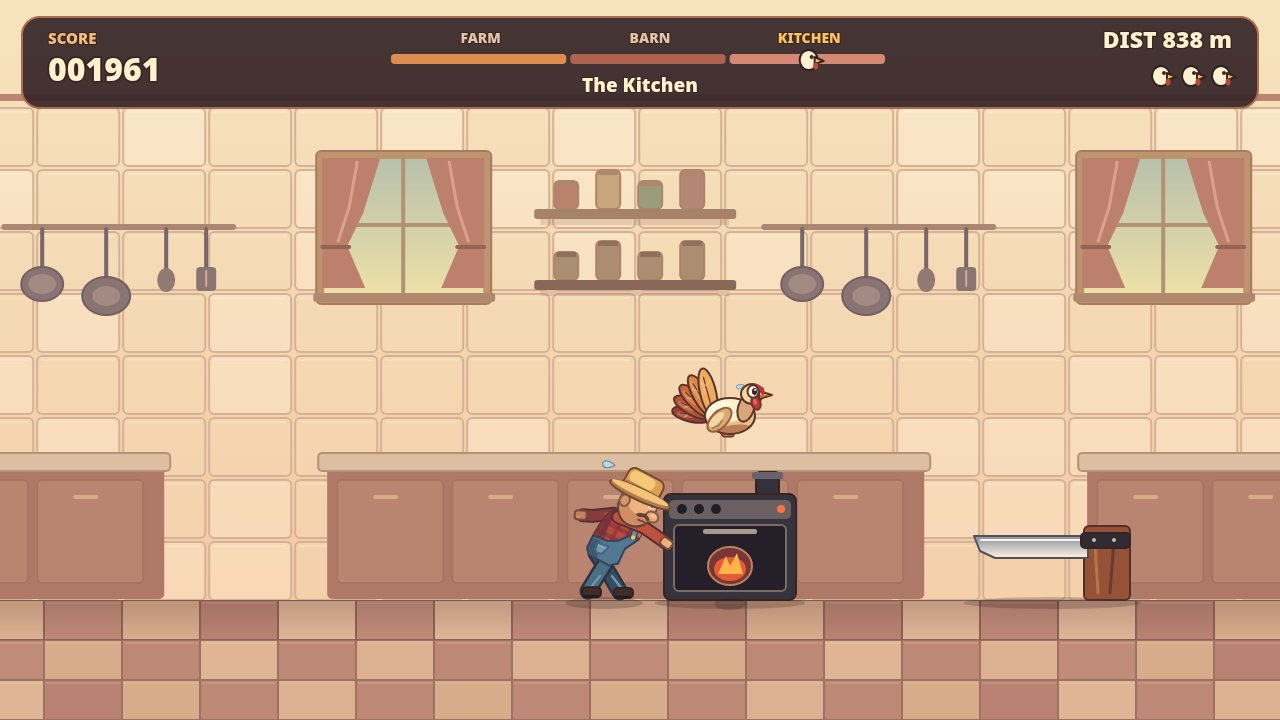
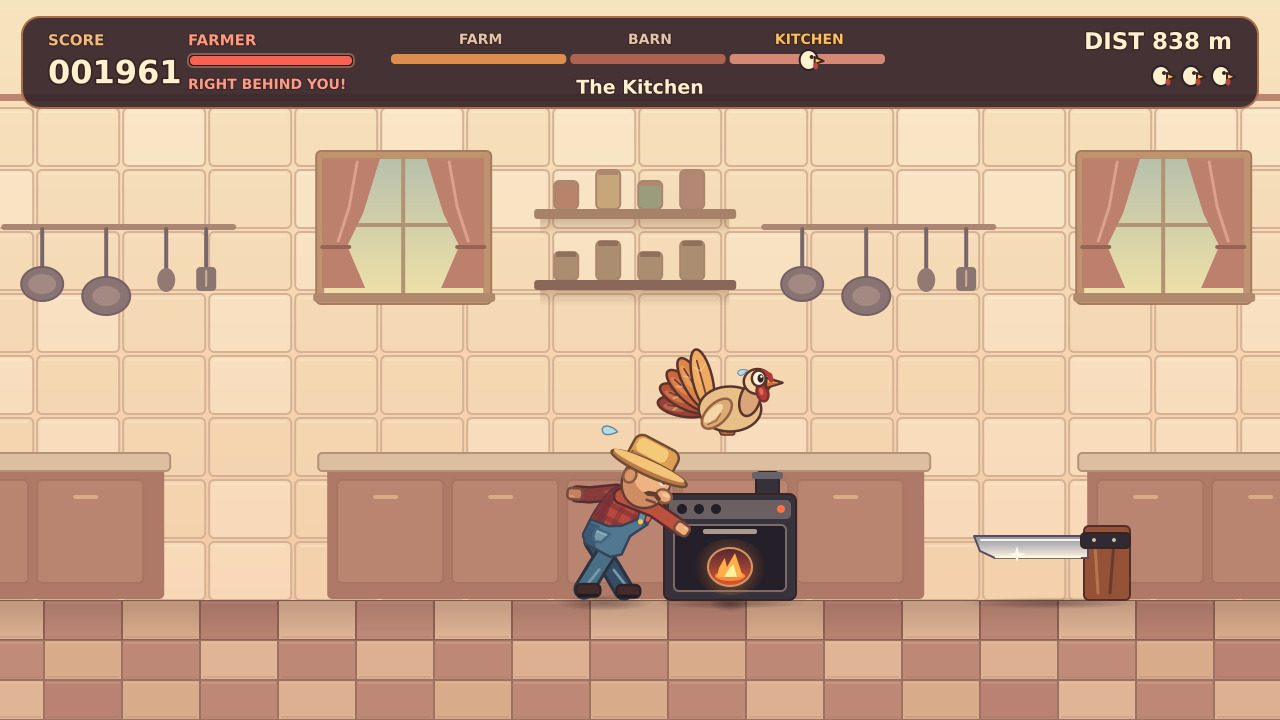
v3: characters +25% draw scale, FARMER proximity HUD, graphics polish (shadows, oven flames, knife glint, caught expressions, richer backgrounds), oven collision height 128->112 for fairness

diff --git a/game/src/render.js b/game/src/render.js
@@ -8,6 +8,7 @@ const LEAF_COLORS = ['#c74731', '#e77835', '#ffbf55'];
 const STAGE_LABELS = ['FARM', 'BARN', 'KITCHEN'];
 const HIT_SECONDS = 0.2;
 const DUST_INTERVAL = 0.095;
+const CHARACTER_SCALE = 1.25;
 
 function fraction(value) {
   return value - Math.floor(value);
@@ -110,7 +111,16 @@ export class Renderer {
   }
 
   shadow(x, y, w, h = 6) {
-    this.oval(x, y, w, h, '#281b1c38');
+    const c = this.ctx;
+    c.save();
+    c.translate(x, y);
+    c.scale(w, h);
+    const shade = c.createRadialGradient(0, 0, 0, 0, 0, 1);
+    shade.addColorStop(0, '#24171861');
+    shade.addColorStop(0.5, '#24171839');
+    shade.addColorStop(1, '#24171800');
+    this.oval(0, 0, 1, 1, shade);
+    c.restore();
   }
 
   background(id, camera, sunrise = false) {
@@ -139,6 +149,10 @@ export class Renderer {
       this.oval(x + 103, y, 45, 15, '#fff2d16e');
       this.oval(x + 65, y + 1, 31, 12, '#fff2d14d');
     });
+    this.repeat(camera * 0.19, 690, (x, i) => {
+      const height = 210 + this.decorSample(i, 12) * 35;
+      this.oval(x + 160, g + 9, 450, height, '#dab098');
+    });
     this.repeat(camera * 0.28, 435, (x, i) => {
       const height = 165 + 50 * this.decorSample(i, 3);
       this.oval(x + 50, g + 27, 324, height + 22, '#b6907d');
@@ -165,6 +179,7 @@ export class Renderer {
       this.line([[x, g - 44], [x + 82, g - 44]], '#a17655', 3);
       this.line([[x, g - 67], [x, g - 33]], '#8b604b', 5);
     });
+    this.rect(0, g - 27, this.w, 27, this.gradient(g - 27, g, '#dcab7100', '#ecba7938'));
   }
 
   barn(camera, palette) {
@@ -176,6 +191,7 @@ export class Renderer {
       this.line([[x + 16, 182], [x + 20, 343], [x + 17, 415]], '#e2a17429');
     });
     this.repeat(camera * 0.55, 618, (x, i) => {
+      this.rect(x + 44, 100, 10, g - 100, '#38242230');
       this.rect(x + 8, 0, 32, g, '#52342f');
       this.rect(x + 39, 0, 5, g, '#a1664b');
       this.poly([[x + 44, 146], [x + 127, 90], [x + 145, 90],
@@ -188,6 +204,10 @@ export class Renderer {
         this.gradient(280, g - 55, '#f4cd8e49', '#f4cd8e00'));
       this.poly([[x + 191, 283], [x + 242, 283], [x + 536, g - 58], [x + 456, g - 58]],
         this.gradient(280, g - 58, '#ffdb9f37', '#ffdb9f00'));
+      for (let mote = 0; mote < 4; mote++) {
+        const sample = this.decorSample(i * 4 + mote, 15);
+        this.oval(x + 199 + mote * 29, 325 + mote * 26 + sample * 15, 1 + sample, 1, '#ffe1ab62');
+      }
 
       const ropeX = x + 370 + this.decorSample(i, 6) * 73;
       this.line([[ropeX, 101], [ropeX, 175]], '#644137', 5);
@@ -240,7 +260,7 @@ export class Renderer {
           this.rect(left + 2, shelf - height, 20, 5, row ? '#8e705d' : '#ad886e');
         }
         this.round(x + 264, shelf, 202, 10, 3, row ? '#8a6859' : '#a68268');
-        this.rect(x + 270, shelf + 10, 189, 6, '#946b5833');
+        this.rect(x + 270, shelf + 10, 189, 16, this.gradient(shelf + 10, shelf + 26, '#80544350', '#80544300'));
       }
 
       this.line([[x + 494, 227], [x + 723, 227]], '#ab8672', 6);
@@ -289,6 +309,7 @@ export class Renderer {
           this.rect(x, y, 78, 40, row === 0 ? '#8d6155' : '#9c7260');
           this.rect(x + 1, y + 1, 76, 38, tones[(col + row) & 1][Math.floor(sample * 3)]);
           this.rect(x + 2, y + 2, 74, 2, '#ffe7bd25');
+          this.rect(x + 3, y + 36, 72, 2, '#9e69542a');
         }
       });
       this.rect(0, g, this.w, 38, this.gradient(g, g + 38, '#62423d40', '#62423d00'));
@@ -318,6 +339,7 @@ export class Renderer {
         this.oval(x + 31, y, 12 + sample * 16, 1.5 + sample * 2, '#5e463629');
         this.oval(x + 44, y + 6, 2.5 + sample * 2, 1.5, '#c69b6d75');
         this.oval(x + 57, y - 2, 2, 1.25, '#6148325e');
+        this.line([[x + 30, y + 1], [x + 38 + sample * 9, y + 1]], '#dfad7327', 1.3);
         if (sample > 0.34) {
           const grass = x + 9 + sample * 10;
           this.line([[grass - 5, g + 3], [grass, g + 12], [grass + 2, g + 4]], '#75643d', 2);
@@ -513,7 +535,7 @@ export class Renderer {
         this.line(middleTine, '#4b4041', 4);
         break;
       }
-      case 'oven':
+      case 'oven': {
         this.round(x + w - 40, y, 23, 31, 4, '#34313a', INK);
         this.round(x + w - 44, y, 31, 7, 2, '#68636a');
         this.round(x, y + 22, w, h - 22, 7, '#37333c', INK);
@@ -522,11 +544,22 @@ export class Renderer {
         this.oval(x + w - 15, y + 37, 4, 4, '#ff7243');
         this.round(x + 10, y + 53, w - 20, h - 62, 5, '#241f28', '#7d6a64');
         this.round(x + 39, y + 57, w - 78, 5, 2, '#a99a8e');
-        this.oval(x + w / 2, g - 34, 22, 19, '#793636', 0, '#bb825d');
-        this.oval(x + w / 2, g - 31, 16, 12, '#e55b37');
-        this.poly([[x + 54, g - 26], [x + 62, g - 44], [x + 66, g - 34],
-          [x + 73, g - 47], [x + 79, g - 26]], '#ffb54c');
+        const cx = x + w / 2;
+        const cy = g - 33;
+        const flicker = Math.sin(this.time * 14 + item.x * 0.07);
+        const heat = this.ctx.createRadialGradient(cx, cy + 5, 3, cx, cy, 36);
+        heat.addColorStop(0, '#ffbb6277');
+        heat.addColorStop(1, '#f86a2a00');
+        this.oval(cx, cy, 37, 28, heat);
+        this.oval(cx, cy, 22, 19, this.gradient(cy - 19, cy + 19, '#532832', '#dc592f'), 0, '#d49664');
+        this.oval(cx, cy + 9, 15, 5, '#ff883c');
+        this.poly([[cx - 13, cy + 10], [cx - 11, cy + 1], [cx - 6 + flicker * 2, cy - 9],
+          [cx - 3, cy], [cx + 5, cy - 13 - flicker * 3], [cx + 9, cy - 2], [cx + 13, cy + 10]],
+        '#ffb04b');
+        this.poly([[cx - 6, cy + 10], [cx - 1, cy + 2], [cx + 3 + flicker, cy - 3],
+          [cx + 7, cy + 10]], '#fff0a1');
         break;
+      }
       case 'knife': {
         const [blade, block] = item.parts;
         const top = g - blade.bottom - blade.h;
@@ -539,6 +572,12 @@ export class Renderer {
           [x + 21, g - blade.bottom], [x + 6, g - blade.bottom - 7]],
           this.gradient(top, g - blade.bottom, '#888fa1', '#fff3df'), '#554e58');
         this.line([[x + 7, top + 4], [bx - 3, top + 4]], '#faf3e6', 2);
+        const edgeY = g - blade.bottom;
+        this.line([[x + 22, edgeY - 1], [bx - 4, edgeY - 1]], '#fff9de', 2.4);
+        const glintX = x + 42;
+        this.poly([[glintX - 8, edgeY - 4], [glintX - 1, edgeY - 5], [glintX + 1, edgeY - 12],
+          [glintX + 3, edgeY - 5], [glintX + 10, edgeY - 4], [glintX + 3, edgeY - 2],
+          [glintX + 1, edgeY + 4], [glintX - 1, edgeY - 2]], '#fff9e7');
         this.round(bx - 3, top - 3, block.w + 3, 15, 4, '#302a35', INK);
         this.oval(bx + 10, top + 4, 2, 2, '#d3bb9d');
         this.oval(bx + 30, top + 4, 2, 2, '#d3bb9d');
@@ -589,8 +628,8 @@ export class Renderer {
 
   drawTurkey(turkey, x, alarmed) {
     const lift = turkey.y ?? 0;
-    this.shadow(x, this.ground + 4, Math.max(9, 33 - lift * 0.11));
-    this.turkeyPose(x, this.ground - lift, { ...turkey, airborne: lift > 0, alarmed });
+    this.shadow(x, this.ground + 4, Math.max(9, 33 - lift * 0.11) * CHARACTER_SCALE, 8);
+    this.turkeyPose(x, this.ground - lift, { ...turkey, airborne: lift > 0, alarmed }, CHARACTER_SCALE);
   }
 
   sweatDrop(x, y, scale = 1) {
@@ -654,7 +693,7 @@ export class Renderer {
     c.restore();
     this.oval(0, bodyY, bodyWidth, bodyHeight, null, 0, ink);
 
-    const wingAngle = turkey.celebrate ? 0.86 : turkey.airborne
+    const wingAngle = turkey.despair ? (angle ? 0.95 : -0.95) : turkey.celebrate ? 0.86 : turkey.airborne
       ? Math.sin(this.time * 23 + phase) * 0.73 - (turkey.vy > 0 ? 0.1 : 0.35)
       : -0.22 + Math.cos(phase) * 0.09;
     c.save();
@@ -666,8 +705,8 @@ export class Renderer {
     c.restore();
 
     const headX = duck ? 31 : 22;
-    const headY = duck ? -18 : -50;
-    this.oval(duck ? 20 : 16, duck ? -15 : -36, 8, duck ? 8 : 14, '#d9a579',
+    const headY = turkey.despair ? -57 : duck ? -18 : -50;
+    this.oval(duck ? 20 : 16, duck ? -15 : turkey.despair ? -40 : -36, 8, duck ? 8 : 14, '#d9a579',
       duck ? Math.PI / 2 : 0.29, ink);
     this.oval(headX, headY, 11, 10, '#f7d4a3', 0, ink);
     this.oval(headX + 4, headY + 9, 4.5, 7, '#b63a3a', -0.29, '#793232');
@@ -678,7 +717,12 @@ export class Renderer {
       '#c97139');
     this.line([[headX + 4, headY - 8], [headX + 10, headY - 5], [headX + 11, headY - 1]],
       '#b6383a', 3.8);
-    if (turkey.alarmed) {
+    if (turkey.despair) {
+      this.oval(headX + 1, headY - 2, 4.8, 4.3, '#fff8df', 0, ink);
+      this.oval(headX + 2, headY - 1, 2.2, 2.6, '#332229');
+      this.line([[headX - 3, headY - 5], [headX + 4, headY - 7]], ink, 1.6);
+      this.oval(headX - 2, headY - 8, 2, 3.6, '#a9d8e9', 0.2, '#6b8199');
+    } else if (turkey.alarmed) {
       this.oval(headX + 1, headY - 2.5, 5.5, 6.2, '#fff8df', 0, ink);
       this.oval(headX + 2.5, headY - 2.5, 2.5, 3.4, '#332229');
       this.oval(headX + 3.1, headY - 3.9, 1, 1, '#fff8df');
@@ -694,9 +738,9 @@ export class Renderer {
   }
 
   drawFarmer(farmer, x) {
-    this.shadow(x, this.ground + 3, 39);
-    this.farmerPose(x, this.ground, farmer);
-    if (farmer.state === 'search') this.text('?', x, this.ground - 145, 37, GOLD);
+    this.shadow(x, this.ground + 3, 39 * CHARACTER_SCALE, 8);
+    this.farmerPose(x, this.ground, farmer, CHARACTER_SCALE);
+    if (farmer.state === 'search') this.text('?', x, this.ground - 145 * CHARACTER_SCALE, 37, GOLD);
   }
 
   farmerPose(x, y, farmer = {}, scale = 1, holding = false) {
@@ -812,7 +856,12 @@ export class Renderer {
     this.line([[13, -116 - brow], [18, -115], [21, -115 - brow * 0.5]], '#59352f', 2.7);
     this.poly([[11, -99], [17, -101], [23, -98], [22, -95], [17, -97],
       [12, -95], [8, -96]], '#653e33');
-    this.line([[13, -92], [20, -93]], '#77483c', 2);
+    if (holding) {
+      this.poly([[11, -94], [24, -96], [21, -89], [16, -88]], '#67382f', '#633d36');
+      this.line([[13, -93], [22, -94]], '#fff0ca', 2.2);
+    } else {
+      this.line([[13, -92], [20, -93]], '#77483c', 2);
+    }
 
     this.round(-18, -137, 39, 25, 7, '#dca054', '#704b34');
     this.round(-15, -135, 27, 12, 5, '#f4c978');
@@ -852,6 +901,7 @@ export class Renderer {
     this.round(22, 17, this.w - 44, 91, 18, '#39272beF', '#a96c4d');
     this.text('SCORE', 48, 40, 15, '#f1bb7d', 'left');
     this.text(String(state.score).padStart(6, '0'), 48, 72, 32, CREAM, 'left');
+    this.drawFarmerProximity(Math.abs(turkey.x - state.farmer.x));
     const left = 391;
     const barWidth = 498;
     const progress = turkey.x / world.totalLength;
@@ -879,6 +929,19 @@ export class Renderer {
     }
     if (state.flashSpotted > 0) this.text('SPOTTED!', this.w / 2, 231, 46, '#ff6854');
     else if (turkey.hidden) this.text('HIDDEN', this.w / 2, 231, 38, '#a3db80');
+  }
+
+  drawFarmerProximity(distance) {
+    const calmDistance = 700;
+    const hotDistance = 140;
+    const fill = Math.max(0, Math.min(1, (calmDistance - distance) / (calmDistance - hotDistance)));
+    const hot = distance <= hotDistance;
+    const x = 188;
+    const width = 166;
+    this.text('FARMER', x, 40, 15, hot ? '#ff997f' : '#f1bb7d', 'left');
+    this.round(x, 54, width, 13, 5, '#291c22', '#8e5d4b');
+    if (fill > 0) this.round(x + 2, 56, (width - 4) * fill, 9, 4, hot ? '#f96250' : '#f1ab50');
+    if (hot) this.text('RIGHT BEHIND YOU!', x, 84, 14, '#ff9b86', 'left');
   }
 
   headIcon(x, y, filled) {
@@ -919,14 +982,14 @@ export class Renderer {
     this.background('farm', 28);
     this.leaves(28);
     const phase = this.time * 1.45;
-    this.shadow(327, this.ground + 9, 87, 11);
-    this.farmerPose(327, this.ground + 5, { facing: 1, state: 'chase', runPhase: phase }, 1.95);
-    this.shadow(755, this.ground + 8, 121, 13);
-    this.turkeyPose(755, this.ground + 3, { runPhase: phase + 0.28 }, 3.15);
+    this.shadow(200, this.ground + 9, 104, 14);
+    this.farmerPose(200, this.ground + 5, { facing: 1, state: 'chase', runPhase: phase }, 1.95 * CHARACTER_SCALE);
+    this.shadow(755, this.ground + 8, 151, 15);
+    this.turkeyPose(755, this.ground + 3, { runPhase: phase + 0.28 }, 3.15 * CHARACTER_SCALE);
     this.leafFrame();
-    this.text('PARDON!', 640, 201, 139, '#ffa64e');
-    this.text('The Great Turkey Escape', 640, 293, 43);
-    this.text('The farmer wants dinner. You ARE dinner. RUN!', 640, 345, 23);
+    this.text('PARDON!', 640, 163, 139, '#ffa64e');
+    this.text('The Great Turkey Escape', 640, 250, 43);
+    this.text('The farmer wants dinner. You ARE dinner. RUN!', 640, 295, 23);
     this.bottomPrompt('← → speed · ↑ / SPACE jump · ↓ duck & hide · ENTER start',
       'Press ENTER or tap to start', true);
   }
@@ -943,11 +1006,11 @@ export class Renderer {
     const impact = this.beginImpact();
     this.background('kitchen', 184);
     this.rect(0, 0, this.w, this.h, '#291b2b89');
-    this.text('CAUGHT!', 640, 184, 112, '#ff8062');
-    this.text('The dinner is back on...', 640, 272, 31);
-    this.shadow(623, this.ground + 8, 140, 14);
-    this.farmerPose(574, this.ground, { facing: 1 }, 2.28, true);
-    this.turkeyPose(706, this.ground - 258, { airborne: true }, 1.94, Math.PI);
+    this.text('CAUGHT!', 640, 122, 112, '#ff8062');
+    this.text('The dinner is back on...', 640, 194, 31);
+    this.shadow(608, this.ground + 8, 156, 17);
+    this.farmerPose(530, this.ground, { facing: 1 }, 2.28 * CHARACTER_SCALE, true);
+    this.turkeyPose(686, this.ground - 328, { airborne: true, despair: true }, 1.94 * CHARACTER_SCALE, Math.PI);
     this.leafFrame();
     this.endPrompt(state);
     this.endImpact(impact);
@@ -956,10 +1019,10 @@ export class Renderer {
   drawEscaped(state) {
     this.time = state.time;
     this.background('farm', 176, true);
-    this.text('ESCAPED!', 640, 183, 110, GOLD);
-    this.text('One turkey, officially pardoned.', 640, 270, 32);
-    this.shadow(465, this.ground + 8, 135, 13);
-    this.turkeyPose(470, this.ground + 1, { celebrate: true }, 3.55);
+    this.text('ESCAPED!', 640, 150, 110, GOLD);
+    this.text('One turkey, officially pardoned.', 640, 226, 32);
+    this.shadow(465, this.ground + 8, 161, 15);
+    this.turkeyPose(470, this.ground + 1, { celebrate: true }, 3.55 * CHARACTER_SCALE);
     const c = this.ctx;
     c.save();
     c.translate(805, 479);

diff --git a/game/src/main.js b/game/src/main.js
@@ -74,7 +74,8 @@ function hitsObstacle(item, box) {
       overlaps(box, item.x + xOffset, w, GROUND_Y - bottom - h, GROUND_Y - bottom));
   }
   if (box.ducking && isHidingProp(item)) return false;
-  return overlaps(box, item.x, item.w, GROUND_Y - item.h, GROUND_Y);
+  const height = item.kind === 'oven' ? CONFIG.spawning.OVEN_COLLISION_HEIGHT : item.h;
+  return overlaps(box, item.x, item.w, GROUND_Y - height, GROUND_Y);
 }
 
 function resolveItems() {

diff --git a/game/src/config.js b/game/src/config.js
@@ -56,6 +56,7 @@ export const CONFIG = {
   spawning: {
     OBSTACLES_PER_1000PX: [2.31, 2.73, 3.15],
     CORN_VALUE: 25,
+    OVEN_COLLISION_HEIGHT: 112,
     START_MARGIN: 500,
     END_MARGIN: 460,
     MIN_OBSTACLE_SPACING: 260,
